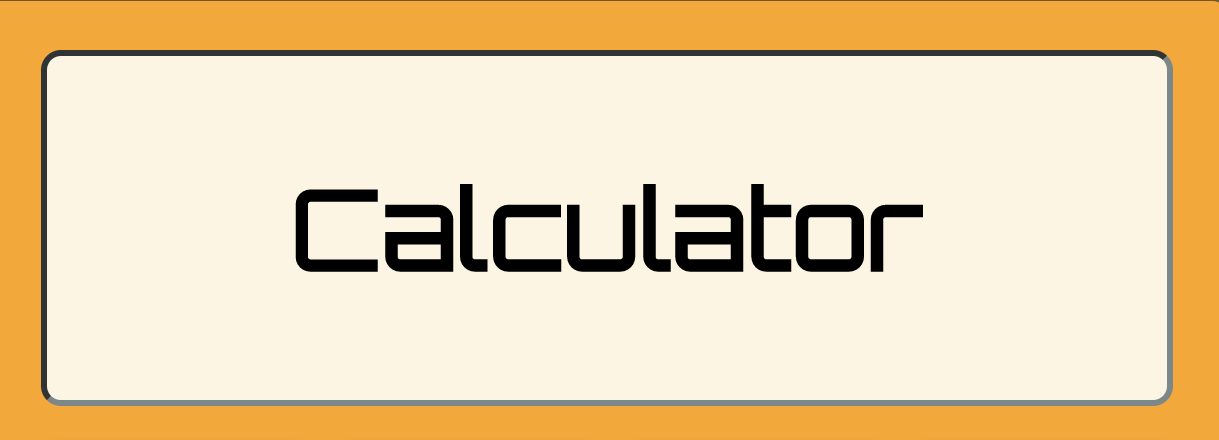
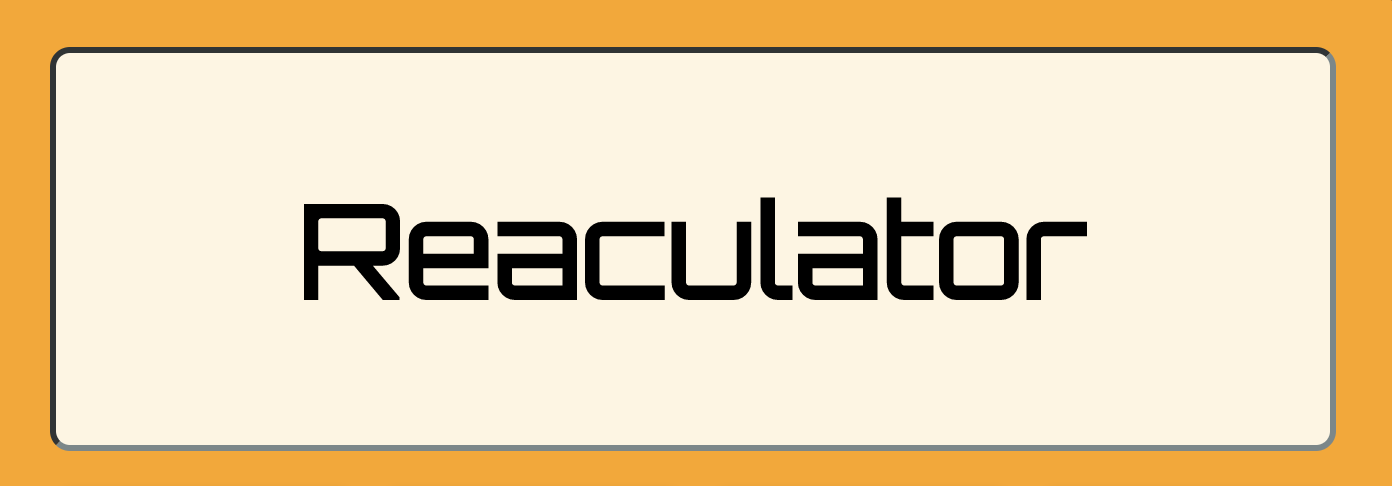
add new README image

Changed region(s): [[0.0312, 0.0886, 0.9664, 0.9455], [0.2182, 0.3841, 0.7793, 0.6205], [0.9975, 0.0, 1.0, 0.0295]]

diff --git a/src/components/Calculator.js b/src/components/Calculator.js
@@ -82,7 +82,7 @@ const Calculator = () => {
         <div className="calculator">
             <div className="screen screen-center">
                 {(display === true)
-                    ? <h1 className="display">Calculator</h1>
+                    ? <h1 className="display">Reaculator</h1>
                     : <h1 className="display">{currentNum}</h1>
                 }
                 
